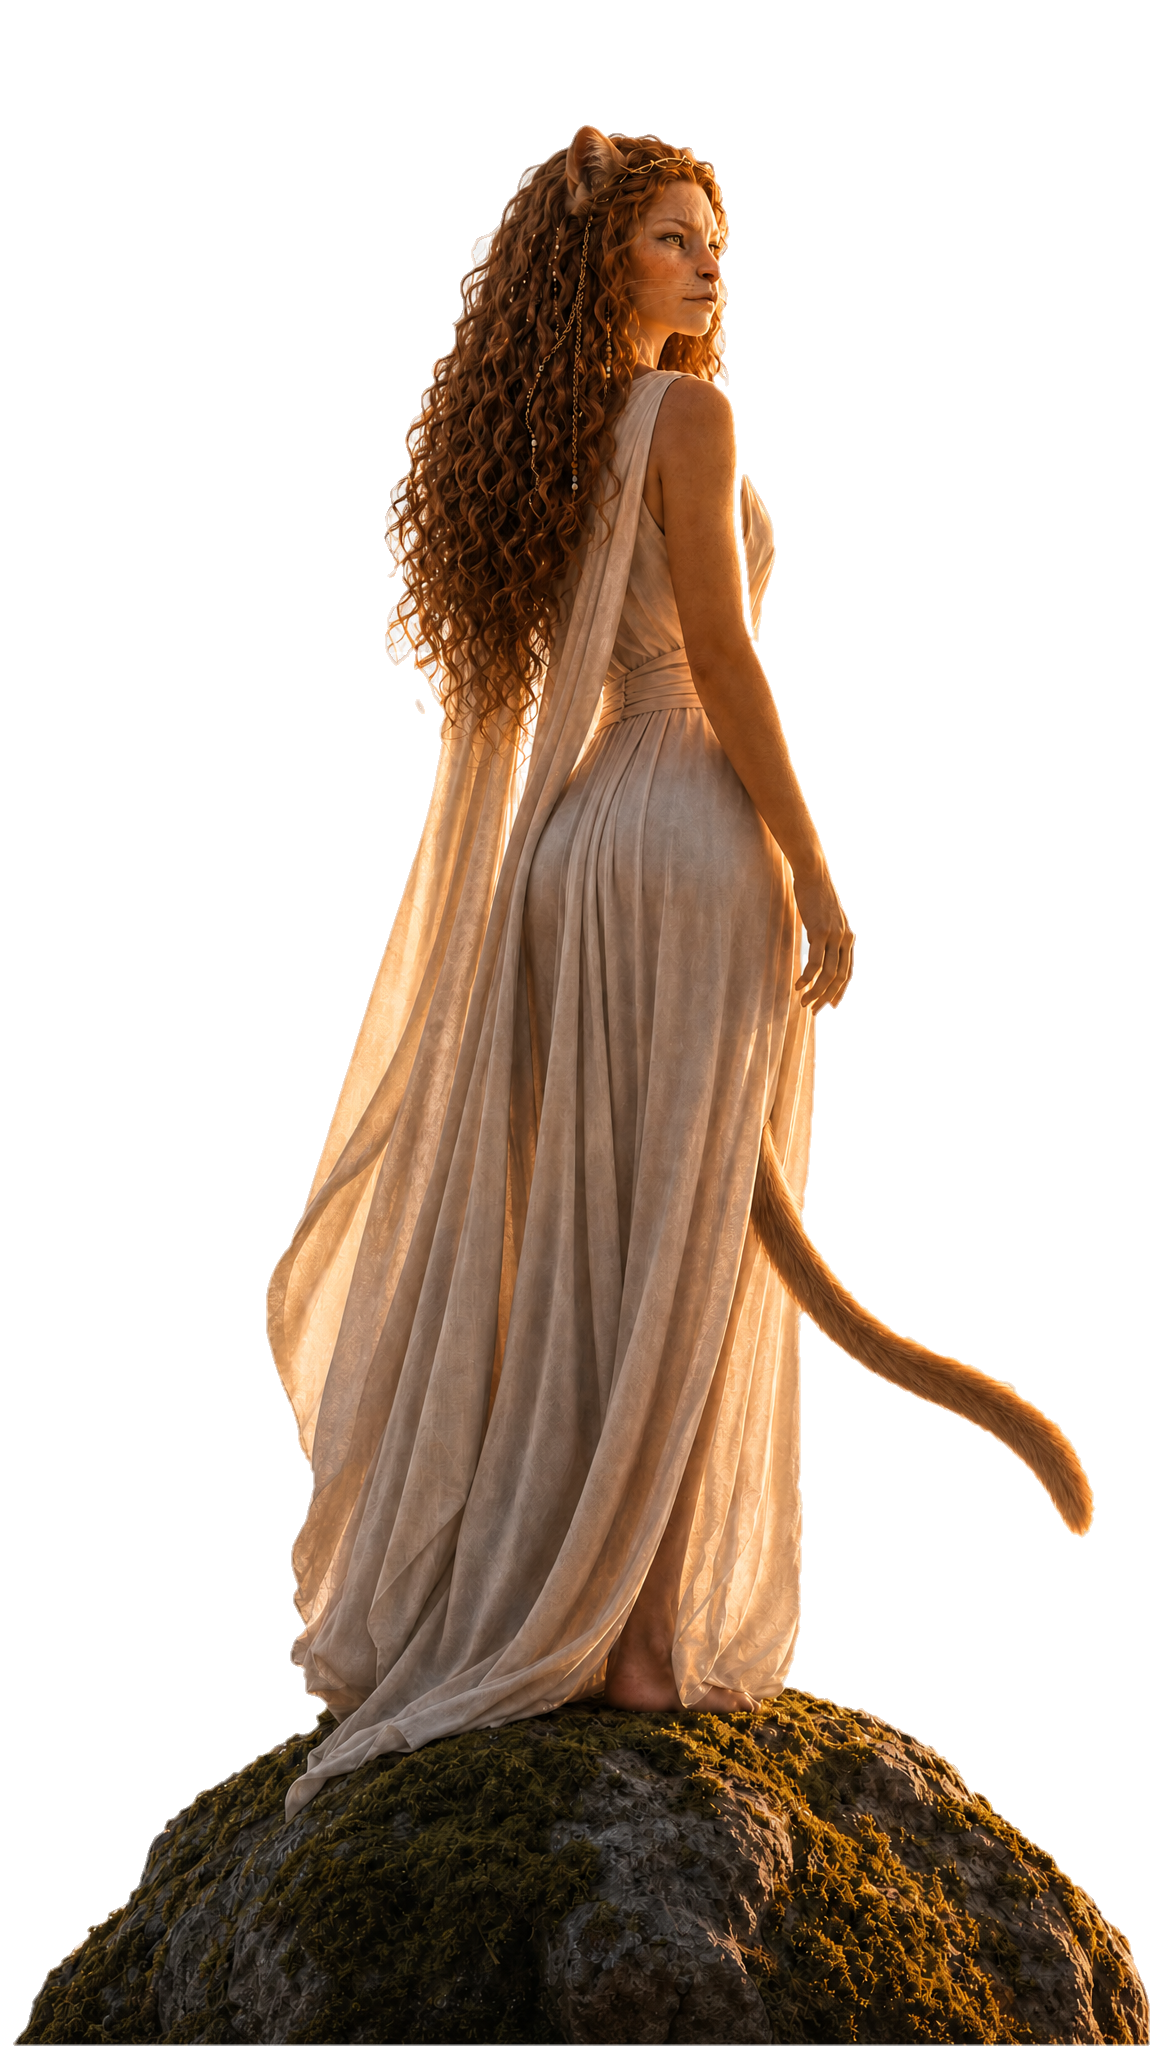
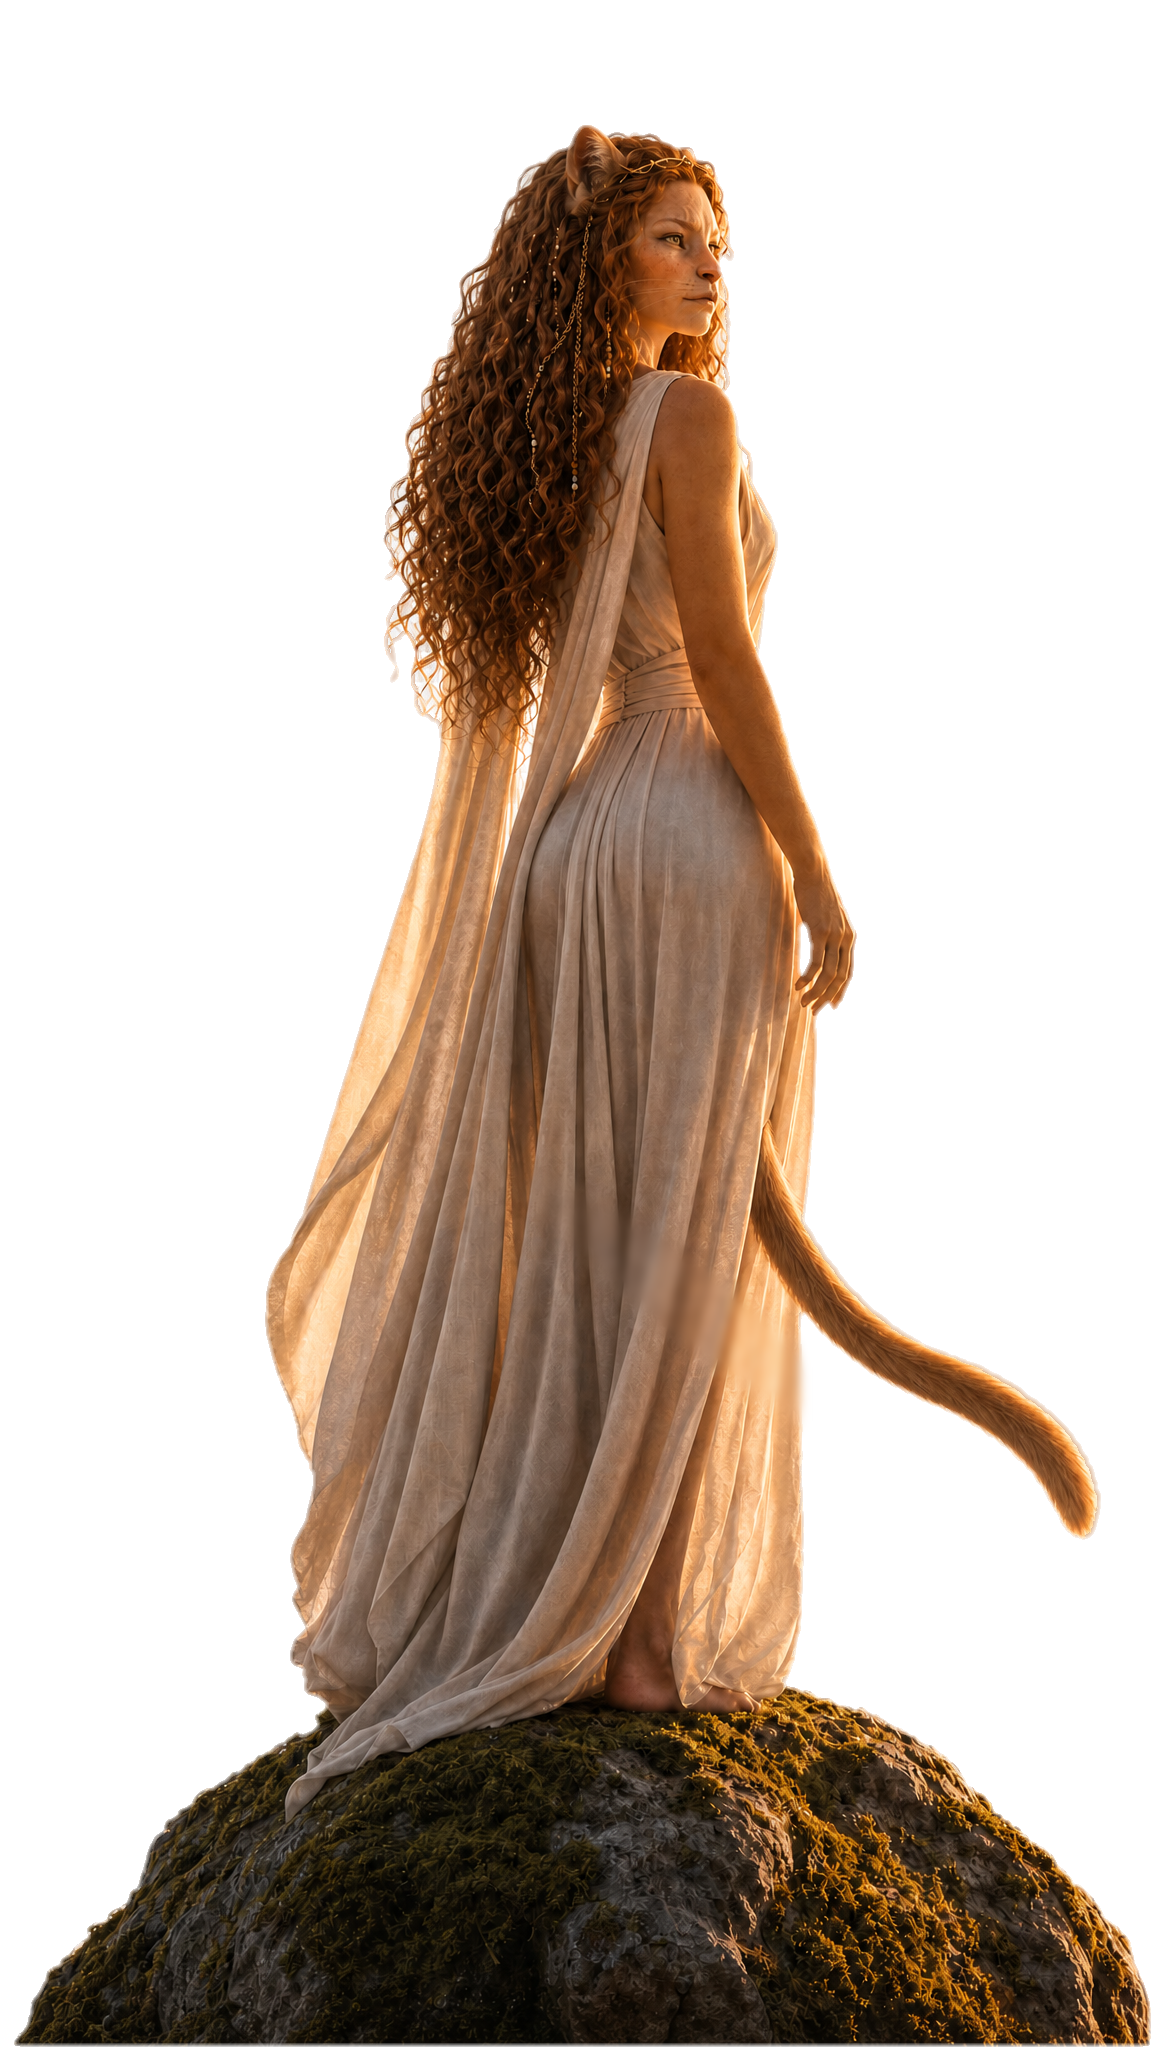
Panel 1 black-screen load + constellation progress dots + Panel 2 hair/tail polish

diff --git a/index.html b/index.html
@@ -75,7 +75,7 @@
       </video>
       <div class="panel-bg"></div>
       <div class="panel-tint"></div>
-      <img class="panel-fg" src="/images/panel-2-fg.png?v=alpha13" alt="" onerror="this.style.display='none'" />
+      <img class="panel-fg" src="/images/panel-2-fg.png?v=alpha14" alt="" onerror="this.style.display='none'" />
       <div class="panel-inner">
         <h1 class="headline">Stillness</h1>
         <p class="tagline">Where the moons rose, she heard herself.</p>
